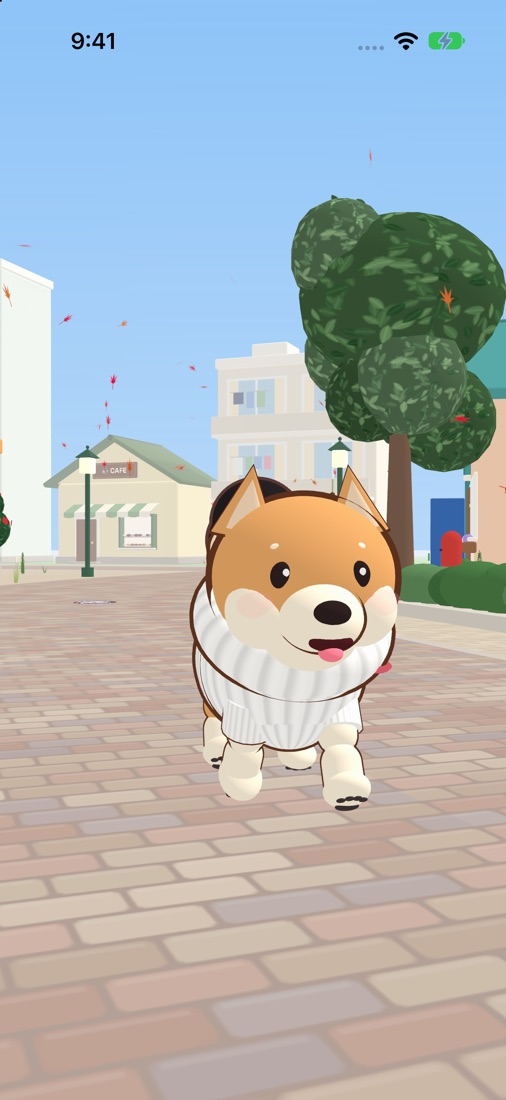
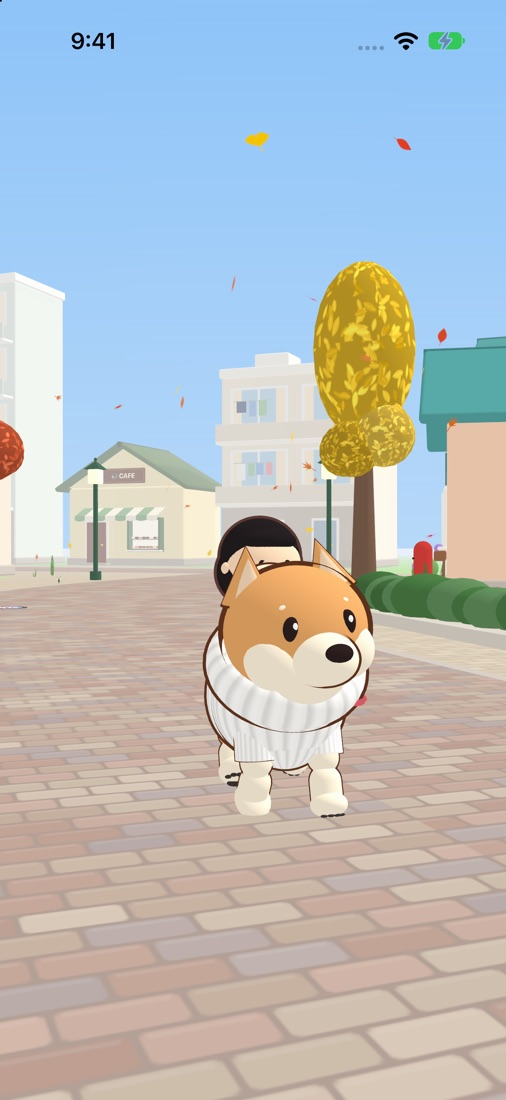
Site: new autumn picture (golden ginkgo, three kinds of falling leaves)

diff --git a/index.html b/index.html
@@ -123,11 +123,11 @@
   <section data-reveal id="seasons">
     <div class="wrap">
       <h2>いっしょに季節を重ねて</h2>
-      <p class="sub">トシコはあなたと同じ時間を生きて、少しずつ大人になっていきます。春の桜、夏の花火、秋の紅葉、冬の雪。<br>ゲームの中の季節も、トシコの年齢も、実際の暦といっしょに進みます。</p>
+      <p class="sub">トシコはあなたと同じ時間を生きて、少しずつ大人になっていきます。春の桜、夏の花火、秋のイチョウと紅葉、冬の雪。<br>ゲームの中の季節も、トシコの年齢も、実際の暦といっしょに進みます。</p>
       <div class="shots four">
         <figure><img src="/img/season_spring.jpg" width="506" height="1100" loading="lazy" alt="桜の花びらが舞う春の道を、首輪とリードだけの子犬のトシコが歩く"><figcaption>春<small>はじめてのお散歩</small></figcaption></figure>
         <figure><img src="/img/season_summer.jpg" width="506" height="1100" loading="lazy" alt="花火が上がる夏の夕暮れ、浴衣を着た1歳のトシコ"><figcaption>夏<small>1歳、浴衣で花火の夜</small></figcaption></figure>
-        <figure><img src="/img/season_autumn.jpg" width="506" height="1100" loading="lazy" alt="紅葉が舞う秋の道、白いリブのタートルネックを着た2歳のトシコ"><figcaption>秋<small>2歳、タートルネックで</small></figcaption></figure>
+        <figure><img src="/img/season_autumn.jpg" width="506" height="1100" loading="lazy" alt="黄色いイチョウと紅葉の葉が舞う秋の道、白いリブのタートルネックを着た2歳のトシコ"><figcaption>秋<small>2歳、タートルネックで</small></figcaption></figure>
         <figure><img src="/img/season_winter.jpg" width="506" height="1100" loading="lazy" alt="雪の中、マフラーと黒ぶちめがねの、マズルが白くなったトシコ"><figcaption>冬<small>白いマズルになっても、いっしょに</small></figcaption></figure>
       </div>
     </div>

diff --git a/en/index.html b/en/index.html
@@ -123,11 +123,11 @@
   <section data-reveal id="seasons">
     <div class="wrap">
       <h2>Growing up together, season by season</h2>
-      <p class="sub">Toshiko lives on the same clock you do, growing up a little at a time. Cherry blossoms in spring, fireworks in summer, falling maple leaves, winter snow.<br>The game's seasons and her age both follow the real calendar.</p>
+      <p class="sub">Toshiko lives on the same clock you do, growing up a little at a time. Cherry blossoms in spring, fireworks in summer, golden ginkgo and falling leaves, winter snow.<br>The game's seasons and her age both follow the real calendar.</p>
       <div class="shots four">
         <figure><img src="/img/season_spring.jpg" width="506" height="1100" loading="lazy" alt="Puppy Toshiko, in just her collar and leash, walking under falling cherry petals"><figcaption>Spring<small>Her first walks</small></figcaption></figure>
         <figure><img src="/img/season_summer.jpg" width="506" height="1100" loading="lazy" alt="One-year-old Toshiko in a yukata on a summer evening, with fireworks overhead"><figcaption>Summer<small>Age 1, a yukata and fireworks</small></figcaption></figure>
-        <figure><img src="/img/season_autumn.jpg" width="506" height="1100" loading="lazy" alt="Two-year-old Toshiko in a white ribbed turtleneck among falling maple leaves"><figcaption>Fall<small>Age 2, in her turtleneck</small></figcaption></figure>
+        <figure><img src="/img/season_autumn.jpg" width="506" height="1100" loading="lazy" alt="Two-year-old Toshiko in a white ribbed turtleneck under golden ginkgo trees, with autumn leaves drifting down"><figcaption>Fall<small>Age 2, in her turtleneck</small></figcaption></figure>
         <figure><img src="/img/season_winter.jpg" width="506" height="1100" loading="lazy" alt="Grey-muzzled senior Toshiko in a scarf and black-rimmed glasses, out in the snow"><figcaption>Winter<small>Grey in the muzzle, still by your side</small></figcaption></figure>
       </div>
     </div>
